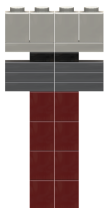
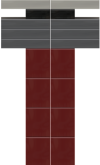
19_01 23:48

diff --git a/src/scenes/level_1.js b/src/scenes/level_1.js
@@ -42,15 +42,17 @@ export default class Level1 extends Phaser.Scene {
 
     preload() {
         console.log("test_scene_2 - Executing preload()");
-        // Carichiamo gli asset grafici
-        this.load.image("bg_l1", "assets/images/background/sfondo1-colore.jpg"); // carica l'immagine di sfondo
-        this.load.image("nuvole", "assets/images/background/bg_2.png"); 
-        this.load.image("bg_3", "assets/images/background/bg_3.png"); // città sfondo
+       
+        // platform vecchie
+        this.load.image("bg_l1", "assets/images/background/sfondo1-colore.jpg"); //carica l'immagine di sfondo
+        this.load.image("nuvole", "assets/images/background/bg_2_new.png");  //nuvole
+        this.load.image("bg_3", "assets/images/background/bg_3.png"); //città sfondo
 
         this.load.image("platform_verde_1", "assets/images/environment_elements/platform_verde_1.png");
         this.load.image("platform_verde_corto", "assets/images/environment_elements/platform_verde_2.png");
         this.load.image("platform_verde_lungo", "assets/images/environment_elements/platform_verde_3.png");
-        this.load.image("platform_1", "assets/images/environment_elements/platform_base_1.png");
+        this.load.image("platform_1", "assets/images/environment_elements/platform.base.verde.up.png"); //pavimento verde
+        this.load.image("platform_1_2", "assets/images/environment_elements/platform.base.verde.png");
 
         this.load.image("platform_casa_1", "assets/images/environment_elements/platform_casa_1.png");
         this.load.image("platform_casa_2", "assets/images/environment_elements/platform_casa_2.png");
@@ -61,16 +63,23 @@ export default class Level1 extends Phaser.Scene {
 
         this.load.image("platform_2", "assets/images/environment_elements/platform_2.png");
         this.load.image("column", "assets/images/environment_elements/column.png");
+
+        this.load.image("punzoni", "assets/images/environment_elements/punzoni.png");
+        this.load.image("platform_3", "assets/images/environment_elements/platform_3.png");
+        this.load.image("platform_verde_3", "assets/images/environment_elements/platform_verde_3.png");
+
+        //platform vecchie-end region
         
         //platform semplice 3D grigia
-        this.load.image("platform_3d_1", "assets/images/environment_elements/platform/base_cemento_piccola.png");
+        this.load.image("platform_3d_1", "assets/images/environment_elements/platform/base_cemento_piccola_2.png");
         
         //platform
         this.load.image("platform_3d_3", "assets/images/environment_elements/platform/3.png");
 
         //platform semplice 3D marrone
         this.load.image("platform_3d_4", "assets/images/environment_elements/platform/4.png");
-
+        this.load.image("platform_3d_marrone", "assets/images/environment_elements/platform/base_legno_grande_2.png");
+       
         //platform_3d_bordeaux
         this.load.image("platform_3d_5", "assets/images/environment_elements/platform/5.png");
 
@@ -89,11 +98,8 @@ export default class Level1 extends Phaser.Scene {
         this.load.image("platform_3d_11", "assets/images/environment_elements/platform/13.png");
         this.load.image("platform_3d_12", "assets/images/environment_elements/platform/14.png");
         
-
-        this.load.image("punzoni", "assets/images/environment_elements/punzoni.png");
-        this.load.image("platform_3", "assets/images/environment_elements/platform_3.png");
-        this.load.image("platform_verde_3", "assets/images/environment_elements/platform_verde_3.png");
-
+        //torretta
+        this.load.image("platform_3d_13", "assets/images/environment_elements/platform/15.png");
 
         //sfondi platform
         this.load.image("sfondo_1", "assets/images/environment_elements/sfondi_platform/sfondo_1.png");
@@ -113,7 +119,7 @@ export default class Level1 extends Phaser.Scene {
         this.background.setOrigin(0, 0);
         this.background.setScrollFactor(0, 0);
 
-        this.bg_3 = this.add.image(0, 0, "bg_3");
+        this.bg_3 = this.add.image(0, 0.5, "bg_3");
         this.bg_3.setOrigin(0, 0);
         this.bg_3.setScrollFactor(0, 0);
         //#endregion
@@ -135,37 +141,39 @@ export default class Level1 extends Phaser.Scene {
 
         //#region Creazione player
         // Aggiungi il player alla fisica
-        this.player = this.physics.add.existing(new Player(this, 6000, this.floorHeight-400, this.worldWidth));
+        this.player = this.physics.add.existing(new Player(this, 0, this.floorHeight, this.worldWidth));
         //this.physics.add.collider(this.player, this.floor);
         //#endregion
 
         //colonne inizio 
         this.staticPlatforms.push(new StaticPlatformsGroup(this, 3, 30, 400, 116, 0, false, "column"));
 
-        //platform tutorial
+        //platform grigia piccola tutorial
         this.staticPlatforms.push(new StaticPlatformsGroup(this, 1, 900, this.game.config.height-170, 250, 0, true, "platform_3d_1"));
 
         //platform 1 e 2 + sfondo 1 (giallo)
         this.staticPlatforms.push(new StaticPlatformsGroup(this, 1, 1700, 66, 0, 0, false, "sfondo_1"));
-        this.staticPlatforms.push(new StaticPlatformsGroup(this, 2, 1570, this.game.config.height-180, 250, -40, true, "platform_3d_1"));
+        this.staticPlatforms.push(new StaticPlatformsGroup(this, 2, 1570, this.game.config.height-185, 250, -40, true, "platform_3d_1"));
         this.staticPlatforms.push(new StaticPlatformsGroup(this, 1, 2038, this.game.config.height-240, 0, 0, true, "platform_3d_3"));
         
         //platform marrone piccola + sfondo 2 (marrone) + platform bordeaux
+        this.staticPlatforms.push(new StaticPlatformsGroup(this, 2, 3500, this.game.config.height-230, 250, 0, true, "platform_3d_marrone")); //platform temporanea
         this.staticPlatforms.push(new StaticPlatformsGroup(this, 1, 3250, this.game.config.height-220, 0, 0, true, "platform_3d_4"));
         this.staticPlatforms.push(new StaticPlatformsGroup(this, 1, 3400, 310, 0, 0, false, "sfondo_2"));
         this.staticPlatforms.push(new StaticPlatformsGroup(this, 1, 3650, this.game.config.height-438, 0, 0, true, "platform_3d_5"));
-
+        
         //platform doppia marrone
         this.staticPlatforms.push(new StaticPlatformsGroup(this, 2, 4150, this.game.config.height-230, 80, 0, true, "platform_3d_4"));
         
         //gru, platform grigia base e platform grigia lunga dietro
+        this.staticPlatforms.push(new StaticPlatformsGroup(this, 2, 4500, this.game.config.height-330, 250, 0, true, "platform_3d_marrone")); //platform temporanea
         this.staticPlatforms.push(new StaticPlatformsGroup(this, 1, 4400, 308, 0, 0, false, "sfondo_3"));
-        this.staticPlatforms.push(new StaticPlatformsGroup(this, 2, 4670, this.game.config.height-600, 0, 0, true, "platform_3d_1"));
+        this.staticPlatforms.push(new StaticPlatformsGroup(this, 2, 4670, this.game.config.height-550, 0, 0, true, "platform_3d_1"));
 
         //casa con camini
-        this.movingPlatforms.push(new MovingPlatformsGroup(this, 1, 5122, this.game.config.height-300, 0, 0, true, "platform_3d_7", 1, -70, 100));
-        this.movingPlatforms.push(new MovingPlatformsGroup(this, 1, 5345, this.game.config.height-380, 0, 0, true, "platform_3d_6",1, 50, 80));
-        this.movingPlatforms.push(new MovingPlatformsGroup(this, 1, 5552, this.game.config.height-300, 0, 0, true, "platform_3d_7", 1, -80, 90));
+        this.movingPlatforms.push(new MovingPlatformsGroup(this, 1, 5122, this.game.config.height-250, 0, 0, true, "platform_3d_7", 1, -70, 100));
+        this.movingPlatforms.push(new MovingPlatformsGroup(this, 1, 5345, this.game.config.height-330, 0, 0, true, "platform_3d_6",1, 50, 80));
+        this.movingPlatforms.push(new MovingPlatformsGroup(this, 1, 5552, this.game.config.height-260, 0, 0, true, "platform_3d_7", 1, -80, 90));
         this.staticPlatforms.push(new StaticPlatformsGroup(this, 1, 5050, 535, 0, 0, false, "sfondo_4"));
 
         //gru che va su e giù e gru gialla statica
@@ -176,7 +184,9 @@ export default class Level1 extends Phaser.Scene {
         this.movingPlatforms.push(new MovingPlatformsGroup(this, 1, 6900, this.game.config.height-260, 0, 0, true, "platform_3d_10",1, 50, 80));
         this.movingPlatforms.push(new MovingPlatformsGroup(this, 1, 7100, this.game.config.height-160, 0, 0, true, "platform_3d_11", 1, -70, 100));
         this.movingPlatforms.push(new MovingPlatformsGroup(this, 1, 7420, this.game.config.height-150, 0, 0, true, "platform_3d_12", 1, -80, 90));
-        
+
+        //torretta
+        this.staticPlatforms.push(new StaticPlatformsGroup(this, 1, 7600, this.game.config.height-420, 0, 0, true, "platform_3d_13")); 
 
 
         //this.staticPlatforms.push(new StaticPlatformsGroup(this, 2, this.staticPlatforms[0].list[this.staticPlatforms[0].list.length - 1].x + this.staticPlatforms[0].list[this.staticPlatforms[0].list.length - 1].width, 500, 1000, 100, true, 'platform_3'));
@@ -199,7 +209,8 @@ export default class Level1 extends Phaser.Scene {
         // }
 
         //pavimento 2D
-        this.staticPlatforms.push(new StaticPlatformsGroup(this, 3, 0, 690, this.textures.get('platform_1').getSourceImage().width, 0, true, 'platform_1'));
+        this.staticPlatforms.push(new StaticPlatformsGroup(this, 4, 0, 697, this.textures.get('platform_1').getSourceImage().width, 0, true, 'platform_1'));
+        this.staticPlatforms.push(new StaticPlatformsGroup(this,4, 0, 690, this.textures.get('platform_1_2').getSourceImage().width, 0, false, 'platform_1_2'));
 
         this.pavements = [];
         this.pavements.push(this.staticPlatforms[this.staticPlatforms.length - 1]);
@@ -224,7 +235,6 @@ export default class Level1 extends Phaser.Scene {
         this.movingPlatforms.push(new MovingPlatformsGroup(this, 2, 6800, this.game.config.height-460, 95, 0, true, 'platform_verde_2', 0, 200, 170)); */
        
         
-
         //#region Creazione nemici
         this.uominiGrigi = [];
         for(let i = 0; i < 1; i++) {
